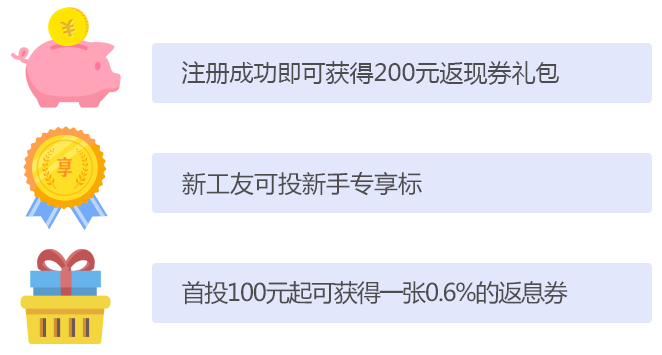
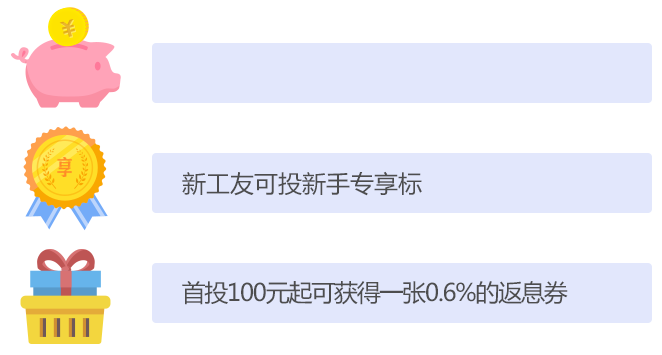
update

Changed region(s): [[0.2719, 0.1549, 0.8459, 0.2479]]

diff --git a/apps/wap/invest/pages/features/cookbook.js b/apps/wap/invest/pages/features/cookbook.js
@@ -42,7 +42,11 @@ class Cookbook extends React.Component {
                 </div>
                 <a styleName="link"
                     href="https://www.9888.cn/cms/addhtml/2078.html?reloadworkpage=y">完整新手秘笈 &gt; </a>
+                <div styleName="text-1-1">
+                    注册即送200元返现券和2.6克返金券礼包
+                </div>
                 <img src={require("../../images/features/cookbook/3.png")} />
+
                 <img onClick={this.registerHandler}
                     src={require("../../images/features/cookbook/4.png")} />
 

diff --git a/apps/wap/invest/css/features/cookbook.css b/apps/wap/invest/css/features/cookbook.css
@@ -72,8 +72,15 @@
     color: #769cf6;
 }
 
-.section {}
 
 .bg a {
     color: #769cf6;
+}
+
+.text-1-1 {
+    position: absolute;
+    font-size: 24px;
+    color: #777;
+    left: 190px;
+    top: 145px;
 }
